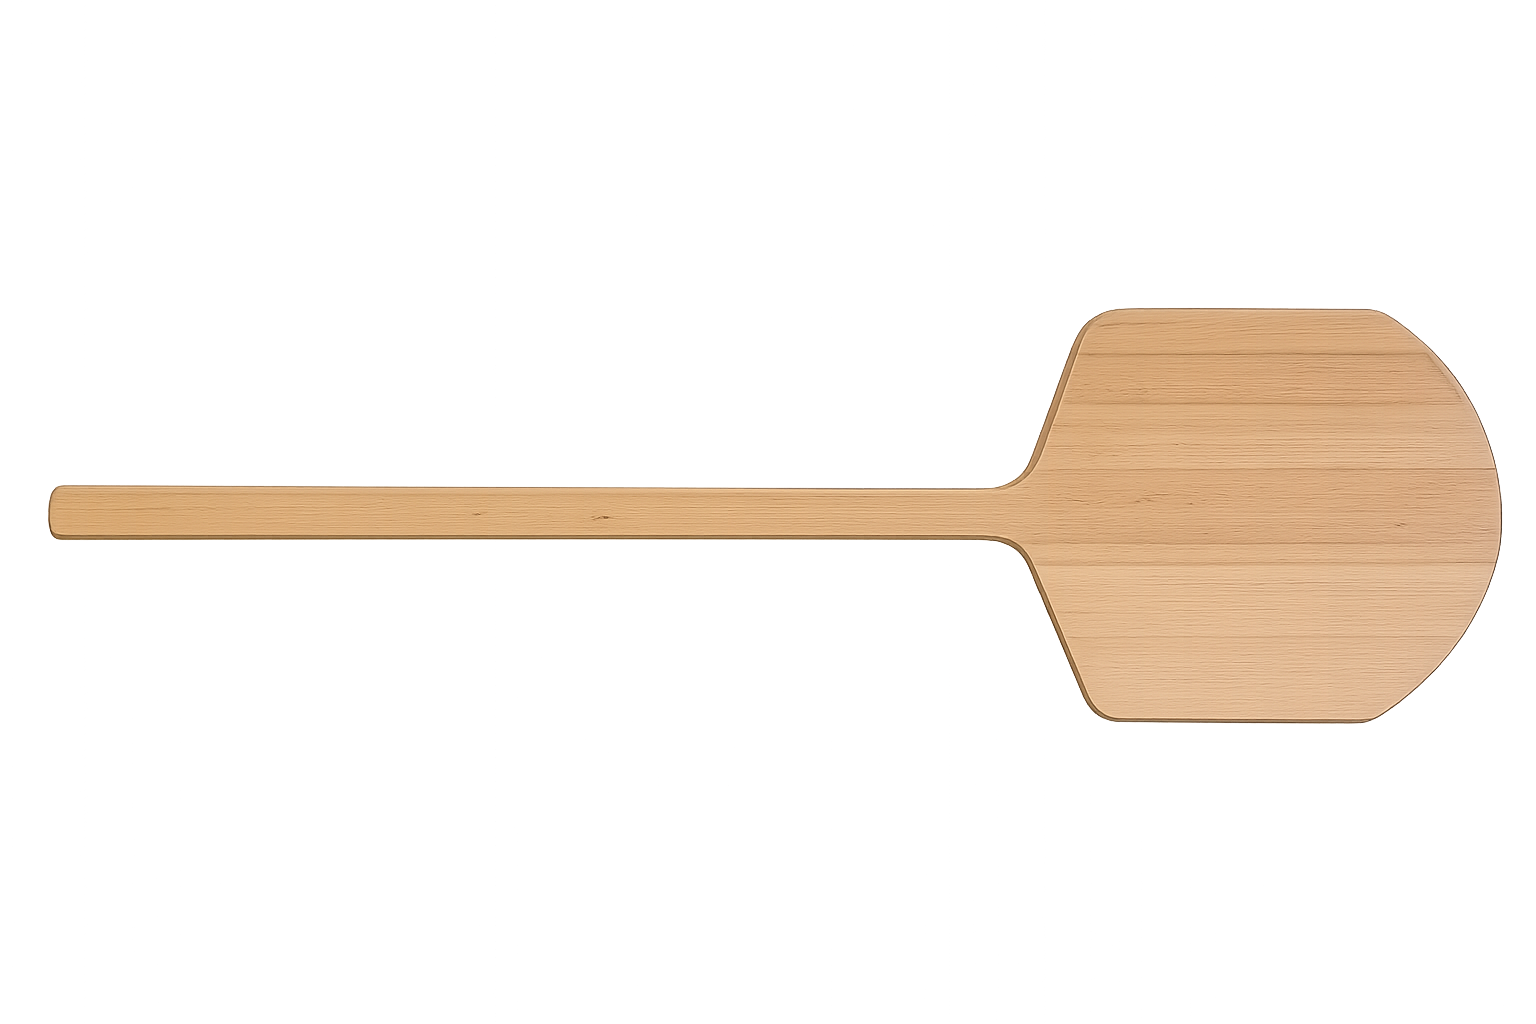
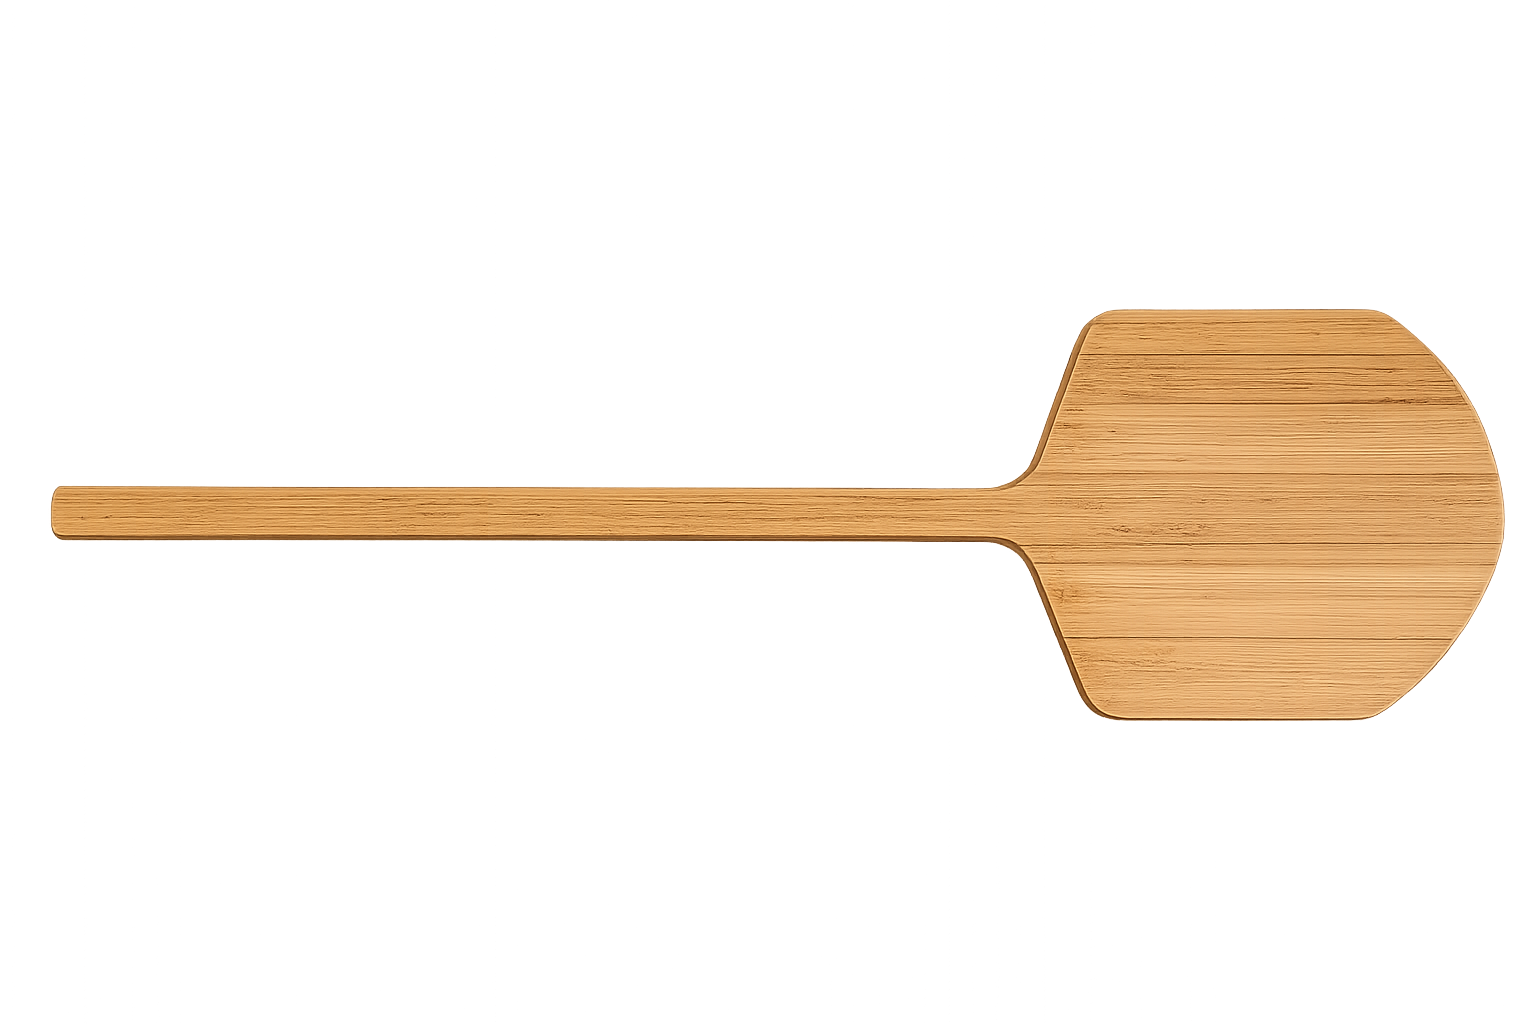
Sync with main: cursor filenames + new peel image; fix peel alignment
The user uploaded new asset files to main with different names than the
code expected, breaking image requests on the deployed site:

- Cursors: code was loading /cursors/cursor-{state}.png but main has
  /cursors/cursor_{state}.png (underscores, plus 'defult' typo for the
  default state). Centralize paths in CURSOR_SRC and delete the orphaned
  dash-named files so the branch matches main.
- Peel: replace pizza-peel.png with the version on main. Alpha analysis
  of the new image shows the paddle region is at x=68.8-95.1% (center
  82%), not 90% as previously assumed. Correct translateX from -46.5%
  to -38.5% so paddle center lands at ~70.5% of viewport, aligned with
  pizza center within ~1px across 1024-1920px screens.

https://claude.ai/code/session_01LfhCocwkK8edcsc3yD7396

Changed region(s): [[0.0312, 0.2812, 1.0, 0.7188]]

diff --git a/components/custom-cursor.tsx b/components/custom-cursor.tsx
@@ -5,6 +5,13 @@ import { usePathname } from 'next/navigation'
 
 type CursorState = 'default' | 'hover' | 'active'
 
+// Filenames on disk use underscores; 'default' is misspelled as 'defult'.
+const CURSOR_SRC: Record<CursorState, string> = {
+  default: '/cursors/cursor_defult.png',
+  hover: '/cursors/cursor_hover.png',
+  active: '/cursors/cursor_active.png',
+}
+
 const INTERACTIVE_SELECTOR =
   'a, button, [role="button"], select, label[for], summary, input[type="checkbox"], input[type="radio"], input[type="submit"], [data-cursor="hover"]'
 
@@ -108,7 +115,7 @@ export function CustomCursor() {
       >
         {/* eslint-disable-next-line @next/next/no-img-element */}
         <img
-          src={`/cursors/cursor-${state}.png`}
+          src={CURSOR_SRC[state]}
           alt=""
           width={44}
           height={44}
@@ -122,11 +129,11 @@ export function CustomCursor() {
           Use visibility:hidden (not display:none) so browsers still fetch. */}
       <div style={{ position: 'absolute', width: 0, height: 0, overflow: 'hidden', visibility: 'hidden' }}>
         {/* eslint-disable-next-line @next/next/no-img-element */}
-        <img src="/cursors/cursor-default.png" alt="" />
+        <img src={CURSOR_SRC.default} alt="" />
         {/* eslint-disable-next-line @next/next/no-img-element */}
-        <img src="/cursors/cursor-hover.png" alt="" />
+        <img src={CURSOR_SRC.hover} alt="" />
         {/* eslint-disable-next-line @next/next/no-img-element */}
-        <img src="/cursors/cursor-active.png" alt="" />
+        <img src={CURSOR_SRC.active} alt="" />
       </div>
     </div>
   )

diff --git a/app/globals.css b/app/globals.css
@@ -819,16 +819,17 @@
 }
 
 /* Pizza peel — spans hero section, paddle precisely behind pizza.
-   Image: 1536×1024, paddle at x=80-100% (center=90%), width=19.9%.
-   width:162% so paddle (19.9%) ≈ pizza diameter (0.667×700px carousel).
-   translateX(-46.5%) → paddle center at 43.5%×162% = 70.5% of viewport,
-   matching pizza center (≈70.3-70.6%) across 1024-1920px viewports (<2px). */
+   Image: 1536×1024, paddle region x=68.8-95.1% (center=82%), width≈26.4%.
+   width:162% → paddle physical width ≈ 0.264×1.62 ≈ 43% of viewport,
+   close to pizza diameter (~46% of viewport with 700px carousel).
+   translateX(-38.5%) → paddle center at (0.82-0.385)×1.62 = 70.5% of
+   viewport, matching pizza center (≈70.3-70.6%) within ~1px. */
 .pizza-peel-bg {
   position: absolute;
   width: 162%;
   top: 50%;
   left: 0;
-  transform: translateX(-46.5%) translateY(-50%) rotate(-3deg);
+  transform: translateX(-38.5%) translateY(-50%) rotate(-3deg);
   z-index: 5;
   pointer-events: none;
   user-select: none;
